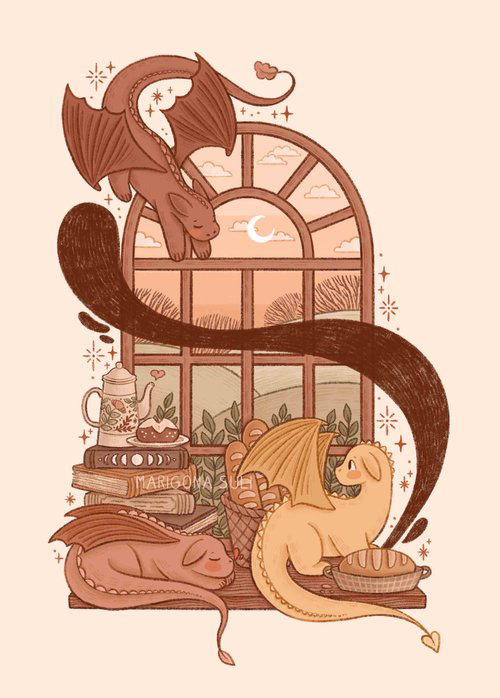
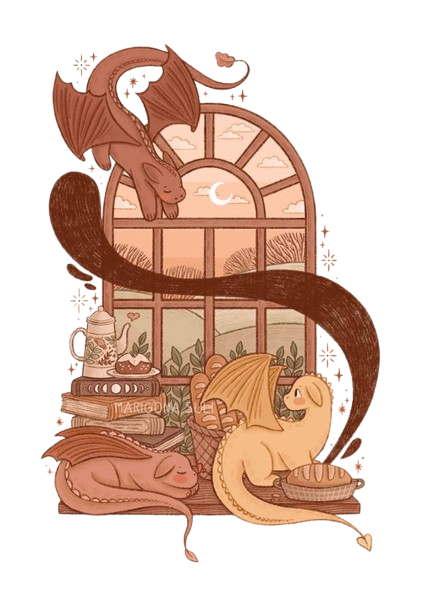
added firebase

diff --git a/lib/firebase_options.dart b/lib/firebase_options.dart
@@ -1,0 +1,68 @@
+// File generated by FlutterFire CLI.
+// ignore_for_file: type=lint
+import 'package:firebase_core/firebase_core.dart' show FirebaseOptions;
+import 'package:flutter/foundation.dart'
+    show defaultTargetPlatform, kIsWeb, TargetPlatform;
+
+/// Default [FirebaseOptions] for use with your Firebase apps.
+///
+/// Example:
+/// ```dart
+/// import 'firebase_options.dart';
+/// // ...
+/// await Firebase.initializeApp(
+///   options: DefaultFirebaseOptions.currentPlatform,
+/// );
+/// ```
+class DefaultFirebaseOptions {
+  static FirebaseOptions get currentPlatform {
+    if (kIsWeb) {
+      throw UnsupportedError(
+        'DefaultFirebaseOptions have not been configured for web - '
+        'you can reconfigure this by running the FlutterFire CLI again.',
+      );
+    }
+    switch (defaultTargetPlatform) {
+      case TargetPlatform.android:
+        return android;
+      case TargetPlatform.iOS:
+        return ios;
+      case TargetPlatform.macOS:
+        throw UnsupportedError(
+          'DefaultFirebaseOptions have not been configured for macos - '
+          'you can reconfigure this by running the FlutterFire CLI again.',
+        );
+      case TargetPlatform.windows:
+        throw UnsupportedError(
+          'DefaultFirebaseOptions have not been configured for windows - '
+          'you can reconfigure this by running the FlutterFire CLI again.',
+        );
+      case TargetPlatform.linux:
+        throw UnsupportedError(
+          'DefaultFirebaseOptions have not been configured for linux - '
+          'you can reconfigure this by running the FlutterFire CLI again.',
+        );
+      default:
+        throw UnsupportedError(
+          'DefaultFirebaseOptions are not supported for this platform.',
+        );
+    }
+  }
+
+  static const FirebaseOptions android = FirebaseOptions(
+    apiKey: 'AIzaSyAXEniHnuzLQXC0w-I0ULy19EV3gaEOOXU',
+    appId: '1:762682918970:android:a60e97baeeb3c01d194d03',
+    messagingSenderId: '762682918970',
+    projectId: 'book-dragon-app',
+    storageBucket: 'book-dragon-app.firebasestorage.app',
+  );
+
+  static const FirebaseOptions ios = FirebaseOptions(
+    apiKey: 'AIzaSyDvbTu7JnRJ4_JN5TF3P_LSqkYOeL3WbDY',
+    appId: '1:762682918970:ios:618e1e079c9fdf31194d03',
+    messagingSenderId: '762682918970',
+    projectId: 'book-dragon-app',
+    storageBucket: 'book-dragon-app.firebasestorage.app',
+    iosBundleId: 'com.example.tddCleanArchitectureTemplate',
+  );
+}

diff --git a/lib/main.dart b/lib/main.dart
@@ -3,6 +3,8 @@ import 'package:book_dragon/core/di/di.dart';
 import 'package:book_dragon/core/log/logger.dart';
 import 'package:book_dragon/core/router/app_router.dart';
 import 'package:book_dragon/core/theme/theme.dart';
+import 'package:book_dragon/firebase_options.dart';
+import 'package:firebase_core/firebase_core.dart';
 import 'package:flutter/material.dart';
 import 'package:flutter_gen/gen_l10n/app_localizations.dart';
 import 'package:flutter_screenutil/flutter_screenutil.dart';
@@ -11,6 +13,9 @@ import 'package:injectable/injectable.dart';
 Future<void> main() async {
   await runZonedGuarded(() async {
     WidgetsFlutterBinding.ensureInitialized();
+    await Firebase.initializeApp(
+      options: DefaultFirebaseOptions.currentPlatform,
+    );
     await _loadApp();
   }, (Object error, StackTrace stack) {
     logger.info('zone error $error');

diff --git a/lib/features/auth/presentation/views/otp_verification_screen.dart b/lib/features/auth/presentation/views/otp_verification_screen.dart
@@ -1,6 +1,7 @@
 import 'package:book_dragon/core/theme/consts.dart';
 import 'package:book_dragon/core/theme/media_consts.dart';
 import 'package:book_dragon/core/utils/core_utils.dart';
+import 'package:book_dragon/global_widgets/app_img_container.dart';
 import 'package:flutter/material.dart';
 import 'package:flutter_screenutil/flutter_screenutil.dart';
 import 'package:hooks_riverpod/hooks_riverpod.dart';
@@ -14,8 +15,8 @@ class OTPVerificationScreen extends ConsumerWidget {
   @override
   Widget build(BuildContext context, WidgetRef ref) {
     return Scaffold(
-      body: ColoredBox(
-        color: AppColor.background,
+      body: AppImgContainer(
+        image: AppImg.startBg,
         child: Padding(
           padding: const EdgeInsets.symmetric(horizontal: 30),
           child: Column(
